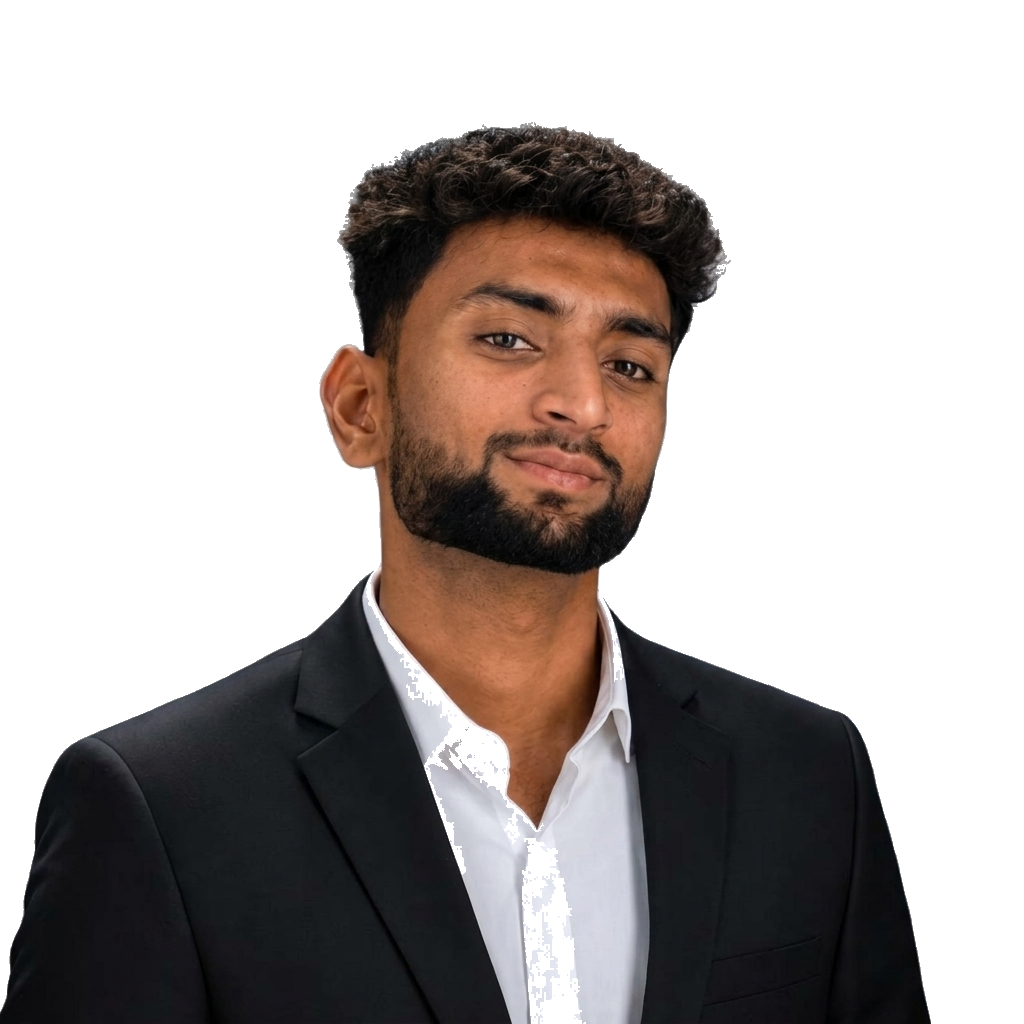
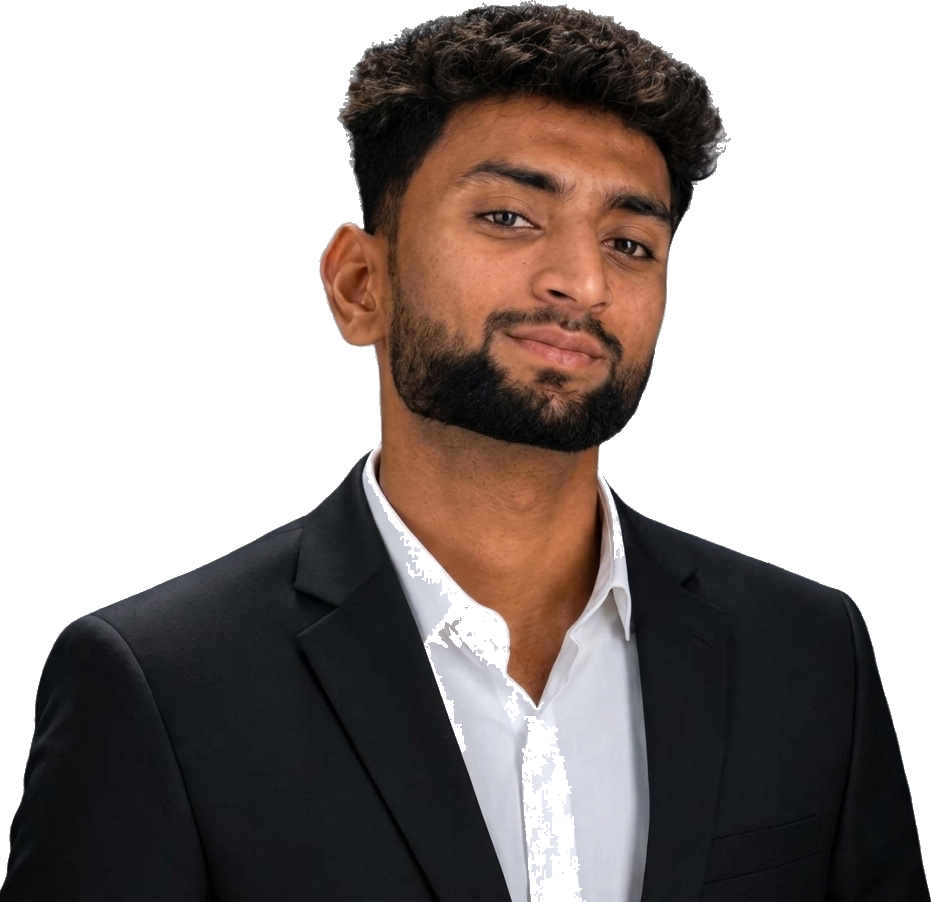
Enlarge and level portrait photo with hero section

diff --git a/styles.css b/styles.css
@@ -553,9 +553,9 @@ img {
 
 .hero-split-grid {
   display: grid;
-  grid-template-columns: 1.15fr 0.85fr;
+  grid-template-columns: 1.08fr 0.92fr;
   align-items: stretch;
-  gap: 3rem;
+  gap: 2.5rem;
 }
 
 .hero-left-content {
@@ -634,7 +634,7 @@ img {
   line-height: 1.4;
 }
 
-/* Hero Right Portrait Frame */
+/* Hero Right Portrait Frame - Large & Leveled */
 .hero-right-portrait {
   border-left: 1px solid var(--border-rule);
   display: flex;
@@ -649,7 +649,7 @@ img {
 .portrait-card-frame {
   position: relative;
   width: 100%;
-  max-width: 460px;
+  max-width: 540px;
   display: flex;
   flex-direction: column;
   align-items: center;
@@ -659,21 +659,21 @@ img {
 .portrait-cutout-img {
   width: 100%;
   height: auto;
-  max-height: 560px;
+  max-height: 680px;
   object-fit: contain;
   object-position: bottom center;
   filter: contrast(1.05) saturate(1.02);
-  transform: translateY(-28px);
+  transform: translateY(-8px);
   transition: transform var(--transition-smooth);
 }
 
 .portrait-card-frame:hover .portrait-cutout-img {
-  transform: translateY(-34px) scale(1.02);
+  transform: translateY(-14px) scale(1.02);
 }
 
 .hero-floating-stat-badge {
   position: absolute;
-  bottom: 24px;
+  bottom: 28px;
   background-color: var(--ink);
   color: #FFFFFF;
   font-family: var(--font-mono);
